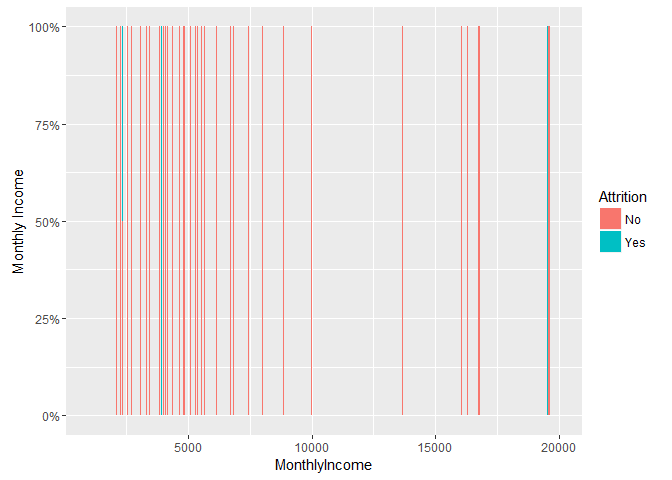
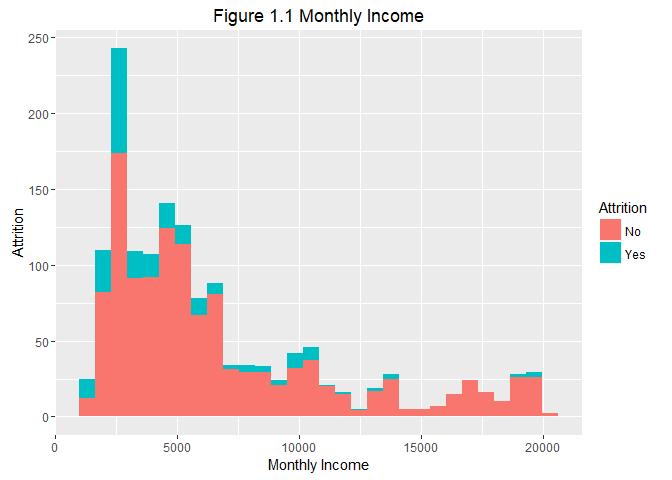
Adjust Univariate 1 Group and observation

diff --git a/CaseStudy2.md b/CaseStudy2.md
@@ -44,23 +44,97 @@ attrition_data[uni_1_cols] %>%
     `stat_bin()` using `bins = 30`. Pick better value with `binwidth`.
 
 ![](CaseStudy2_files/figure-markdown_github/unnamed-chunk-4-1.png)
-Relevant Features \| Behaviour Observed \| Further Compare ——————— \|
-—————————————————————————————– \| —————– Monthly Income \| **Less** the
-Monthly Income, employees are **far more** likely to leave \| Fig 1.1
-Percent Salary Hike \| Less the Salary increase received, employes are
-more likely to leave \| Fig 1.2 Performance Rating \| **Lower** the
-Performance rating received, employees are **far more** likely to leave
-\| Fig 1.3 Stock Option Level \| Less the stock option, employees are
-more likely to leave \| Fig 1.4
+Relevant Features \| Initial Observation  
+——————— \| ——————————————————————————- Monthly Income \| **Less** the
+Monthly Income, employees are **far more** likely to leave (Compare Fig
+1.1) Percent Salary Hike \| Less the Salary increase received, employes
+are more likely to leave (Compare Fig 1.2) Performance Rating \|
+**Lower** the Performance rating received, employees are **far more**
+likely to leave (Compare Fig 1.3) Stock Option Level \| Less the stock
+option, employees are more likely to leave (Compare Fig 1.4)
 
 ``` r
-ggplot(case_data, aes(x = MonthlyIncome)) + 
-  geom_bar(aes(fill = Attrition), position = 'fill') + 
-  scale_y_continuous(labels = percent_format()) +
-  ylab("Monthly Income")
+ggplot(case_data, aes(x = MonthlyIncome, fill=Attrition)) + 
+    geom_histogram(position="stack") +
+    ggtitle('Figure 1.1 Monthly Income') + 
+    theme(plot.title = element_text(hjust = 0.5)) +
+    xlab('Monthly Income') + 
+    ylab('Attrition')
 ```
 
+    `stat_bin()` using `bins = 30`. Pick better value with `binwidth`.
+
 ![](CaseStudy2_files/figure-markdown_github/unnamed-chunk-5-1.png)
+
+``` r
+ggplot(case_data, aes(x = PercentSalaryHike, fill=Attrition)) + 
+    geom_histogram(position="stack") +
+    ggtitle('Figure 1.2 Percent Salary Hike') + 
+    theme(plot.title = element_text(hjust = 0.5)) +
+    xlab('Percent Salary Hike') + 
+    ylab('Attrition')
+```
+
+    `stat_bin()` using `bins = 30`. Pick better value with `binwidth`.
+
+![](CaseStudy2_files/figure-markdown_github/unnamed-chunk-5-2.png)
+
+``` r
+ggplot(case_data, aes(x = PerformanceRating, fill=Attrition)) + 
+    geom_histogram(position="stack") +
+    ggtitle('Figure 1.3 Performance Rating') + 
+    theme(plot.title = element_text(hjust = 0.5)) +
+    xlab('Performance Rating') + 
+    ylab('Attrition')
+```
+
+    `stat_bin()` using `bins = 30`. Pick better value with `binwidth`.
+
+![](CaseStudy2_files/figure-markdown_github/unnamed-chunk-5-3.png)
+
+``` r
+ggplot(case_data, aes(x = StockOptionLevel, fill=Attrition)) + 
+    geom_histogram(position="stack") +
+    ggtitle('Figure 1.4 Stock Option Level') + 
+    theme(plot.title = element_text(hjust = 0.5)) +
+    xlab('Stock Option Level') + 
+    ylab('Attrition')
+```
+
+    `stat_bin()` using `bins = 30`. Pick better value with `binwidth`.
+
+![](CaseStudy2_files/figure-markdown_github/unnamed-chunk-5-4.png)
+
+<table>
+<colgroup>
+<col style="width: 21%" />
+<col style="width: 79%" />
+</colgroup>
+<thead>
+<tr class="header">
+<th>Relevant Features</th>
+<th>Comparison Observation</th>
+</tr>
+</thead>
+<tbody>
+<tr class="odd">
+<td>Monthly Income</td>
+<td>Could be the attrition factor, but not enough to be the univariate cause</td>
+</tr>
+<tr class="even">
+<td>Percent Salary Hike</td>
+<td>Not a factor</td>
+</tr>
+<tr class="odd">
+<td>Performance Rating</td>
+<td>Could be the attrition factor, but not enough to be the univariate cause</td>
+</tr>
+<tr class="even">
+<td>Stock Option Level</td>
+<td>Not a factor</td>
+</tr>
+</tbody>
+</table>
 
 Univariate 2 - attrition by job functions
 -----------------------------------------
